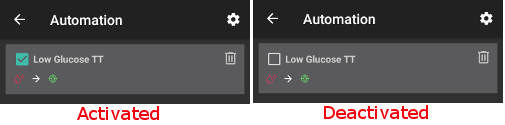
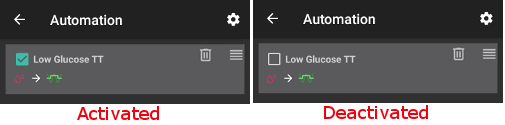
Update Automation
Delete with Trash icon (and screenshots)

diff --git a/docs/EN/Usage/Automation.rst b/docs/EN/Usage/Automation.rst
@@ -92,7 +92,7 @@ To sort automation rules click and hold the four-lines-button on the right side 
   
 Delete automation rules
 -----
-To delete an automation rule just swipe it left or right.
+To delete an automation rule click on trash icon.
 
 .. image:: ../images/Automation_Delete.png
   :alt: Delete automation rule
